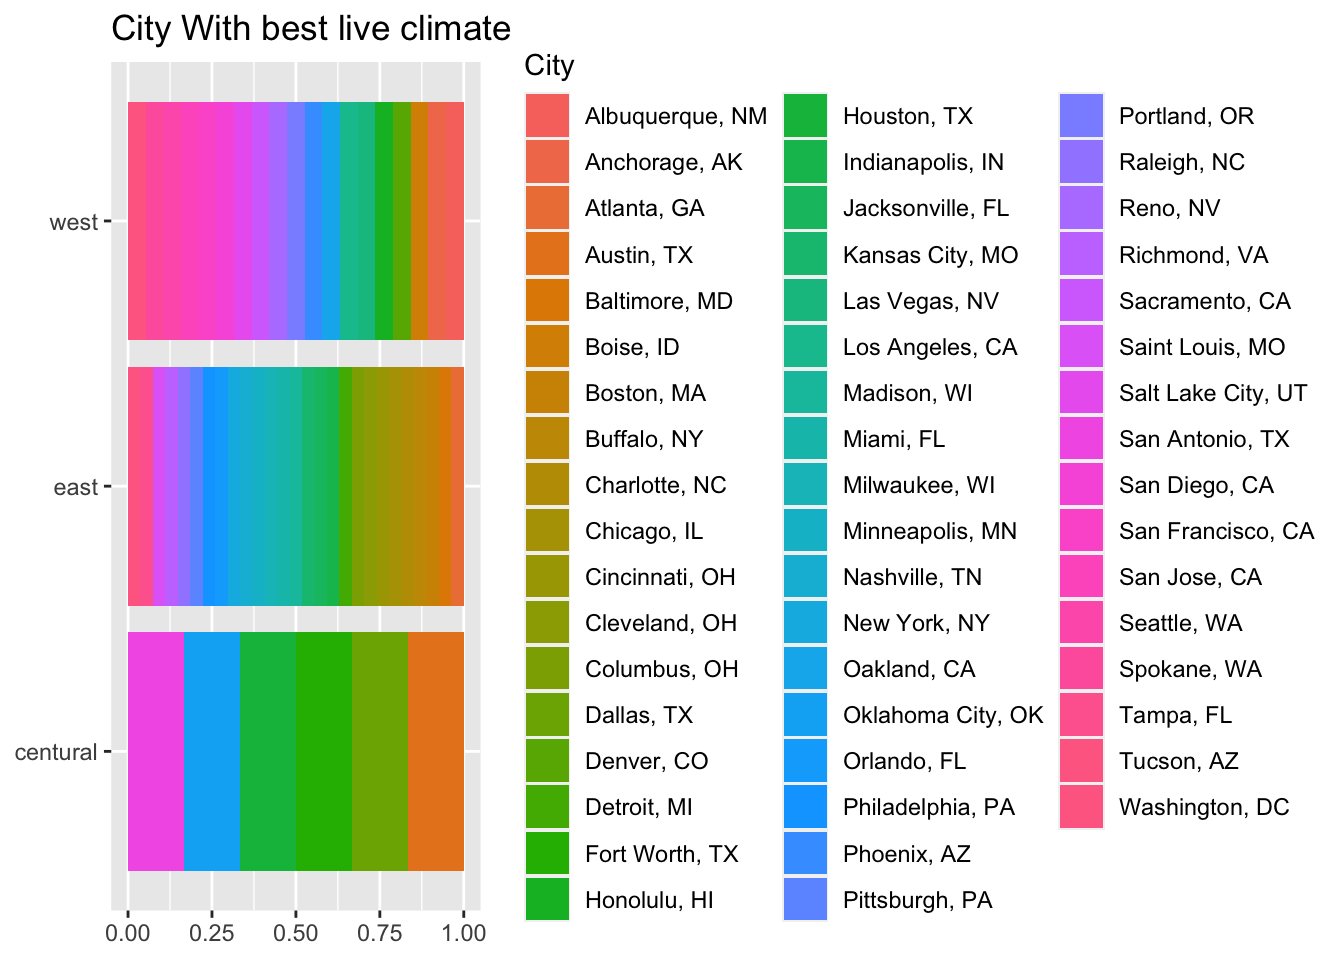
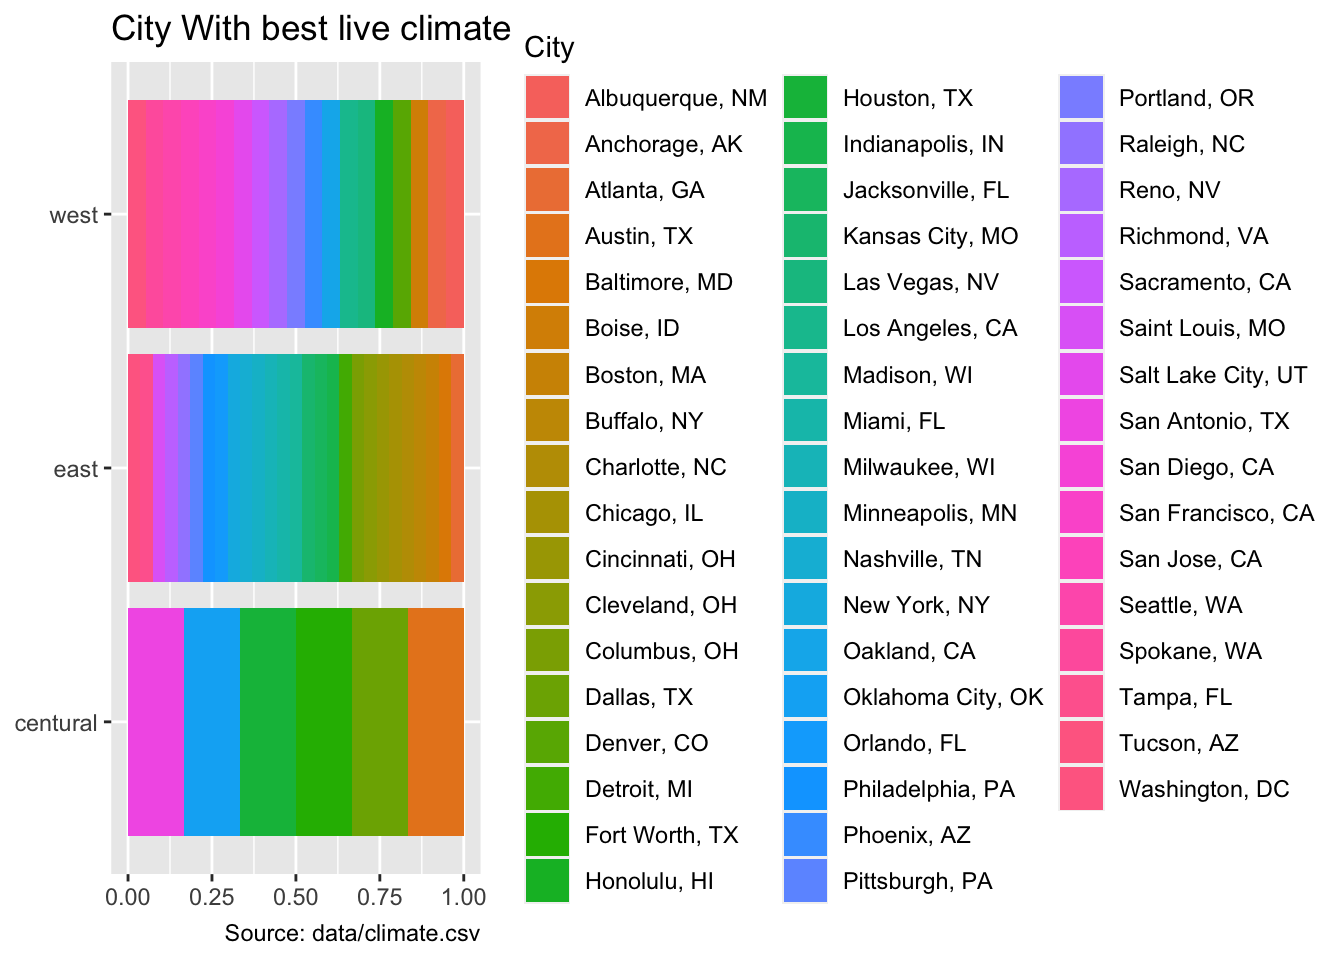
Update

diff --git a/2022/03/data-science-post-2/index.html b/2022/03/data-science-post-2/index.html
@@ -310,17 +310,85 @@ Data Science Analysis and Visulization Post #2
 <h1>Load Tidyverse Package</h1>
 <pre class="r"><code>library(tidyverse)</code></pre>
 </div>
-<div id="load-data-set" class="section level1">
-<h1>Load Data Set</h1>
-<pre class="r"><code>climate &lt;- read_csv(&quot;data/climate.csv&quot;)</code></pre>
+<div id="load-data-set-summary-of-data-set" class="section level1">
+<h1>Load Data Set &amp; Summary of Data Set</h1>
+<pre class="r"><code>climate &lt;- read_csv(&quot;data/climate.csv&quot;)
+dim(climate)</code></pre>
+<pre><code>## [1] 52 12</code></pre>
+<pre class="r"><code>summary(climate)</code></pre>
+<pre><code>##       Rank           City              Region          QualityofLifeIndex
+##  Min.   : 1.00   Length:52          Length:52          Min.   :133.5     
+##  1st Qu.:13.75   Class :character   Class :character   1st Qu.:163.9     
+##  Median :26.50   Mode  :character   Mode  :character   Median :172.6     
+##  Mean   :26.50                                         Mean   :173.1     
+##  3rd Qu.:39.25                                         3rd Qu.:182.5     
+##  Max.   :52.00                                         Max.   :208.9     
+##  Purchasing Power Index  Safety Index   Health Care Index CostofLivingIndex
+##  Min.   : 82.06         Min.   :24.26   Min.   :55.83     Min.   : 62.07   
+##  1st Qu.:112.55         1st Qu.:41.13   1st Qu.:64.49     1st Qu.: 66.97   
+##  Median :126.17         Median :49.70   Median :70.22     Median : 72.20   
+##  Mean   :124.78         Mean   :48.05   Mean   :70.11     Mean   : 73.94   
+##  3rd Qu.:134.47         3rd Qu.:54.76   3rd Qu.:74.87     3rd Qu.: 77.69   
+##  Max.   :169.75         Max.   :67.15   Max.   :81.26     Max.   :103.25   
+##  Property Price to Income Ratio Traffic Commute Time Index Pollution Index
+##  Min.   :1.350                  Min.   :21.96              Min.   :16.20  
+##  1st Qu.:2.462                  1st Qu.:27.11              1st Qu.:29.31  
+##  Median :3.720                  Median :34.09              Median :38.84  
+##  Mean   :4.052                  Mean   :33.96              Mean   :38.98  
+##  3rd Qu.:5.050                  3rd Qu.:39.30              3rd Qu.:46.14  
+##  Max.   :9.830                  Max.   :61.07              Max.   :67.59  
+##   ClimateIndex  
+##  Min.   :41.61  
+##  1st Qu.:66.92  
+##  Median :78.82  
+##  Mean   :76.50  
+##  3rd Qu.:85.57  
+##  Max.   :97.26</code></pre>
 </div>
 <div id="distribution-of-best-living-climate-citys-in-each-region" class="section level1">
 <h1>Distribution of best living climate citys in each region</h1>
 <pre class="r"><code>ggplot(climate, aes(y = Region, fill = City)) +
   geom_bar(position = &quot;fill&quot;) + 
   labs(title = &quot;City With best live climate&quot;,
+       caption = &quot;Source: data/climate.csv&quot;,
        y = NULL, x = NULL)</code></pre>
-<p><img src="https://example.org/posts/Data%20Science%20Post%202_files/figure-html/unnamed-chunk-1-1.png" width="672" /></p>
+<p><img src="https://example.org/posts/Data%20Science%20Post%202_files/figure-html/unnamed-chunk-1-1.png" width="672" />
+From this bar graph. We can having a brief view about the discribution of city that is great for live in the United States. Most of best living city are in east. Because the east region has more color compare with east and centural states.</p>
+</div>
+<div id="how-living-cost-influence-livng-quality" class="section level1">
+<h1>How living cost influence livng quality</h1>
+<pre class="r"><code>ggplot(
+  data = climate,
+  mapping = aes(
+    y = CostofLivingIndex ,
+    x = QualityofLifeIndex)) + 
+    labs(title = &quot;Living Cost and Living Quality&quot;,
+       caption = &quot;Source: data/climate.csv&quot;,) +
+    geom_point( aes(color = Region))  + geom_smooth(color = &quot;Black&quot;)</code></pre>
+<pre><code>## `geom_smooth()` using method = &#39;loess&#39; and formula &#39;y ~ x&#39;</code></pre>
+<p><img src="https://example.org/posts/Data%20Science%20Post%202_files/figure-html/unnamed-chunk-2-1.png" width="672" />
+In this diagram. it represent the relationship between the living and cost. We can having a direct view that under most condition, a high living cost will be lower the living quality. This is also true in common life. People feels streeful when they live in a high economic stree environment. The line on graph has show a decreaing trent which represent the higher living quality score the lower of living cost. The point represent a city from east, west or centural. City from east has a wide range of difference living situations.</p>
+<pre class="r"><code>ggplot(climate, aes(
+  x = QualityofLifeIndex,
+  fill = Region
+)) +
+  geom_density(
+    adjust = 2,
+    alpha = 0.5
+  ) +
+  labs(
+    x = &quot;Quality of Life Index&quot;,
+    y = &quot;Density&quot;,
+    title = &quot;Quality of Life In different region&quot;,
+    fill = &quot;Region&quot;,
+    caption = &quot;Source: data/climate.csv&quot;
+  )</code></pre>
+<p><img src="https://example.org/posts/Data%20Science%20Post%202_files/figure-html/unnamed-chunk-3-1.png" width="672" />
+From this density graph, we can easily having a idea of which region having the highest living quality which is West city. East and centroal are about the same, but centural state having a higher desnity than east. So, we can rank three region by West better than ceuntrual and better than east.</p>
+</div>
+<div id="conclution" class="section level1">
+<h1>Conclution</h1>
+<p>In couclution, I would like to go over this post. The data set I hading using in this research is about living quality. Different type of graph has different preformance with to showing the result. Throught the data analysis that I had done above, West cities has the highest satisification for people to live with. People who live in est cities having a higher living quality score. In the end, I feel like the data set that I am using is a great resources for analysis practice. It helps me to figure out the best living place which is the question I had while work with this data set.</p>
 </div>
 
               

diff --git a/2022/03/data-science-post-1/index.html b/2022/03/data-science-post-1/index.html
@@ -372,7 +372,7 @@ Data Science Analysis and Visulization Post #1
                      color = SchoolType)) +
   geom_point() + 
   labs(title = &quot;School Preference Number 1 VS Total number Preference&quot;,
-       subtitle = &quot;Dimensions for Adelie, Chinstrap, and Gentoo Penguins&quot;,
+       subtitle = &quot;Point Diagram&quot;,
        x = &quot;Total number of Preference&quot;, 
        y = &quot;Preference #1&quot;,
        color = &quot;SchoolType&quot;,
@@ -417,6 +417,10 @@ Through the graph we can see that Junior’s total number of preference in 2018 
   ) </code></pre>
 <p><img src="https://example.org/posts/Data%20Science%20Post%201_files/figure-html/unnamed-chunk-4-1.png" width="672" />
 This broken line graph indicate the free Place oppourntity (other than Perference) in each different type of school. We can see tha secondary school are not having and free place availiable for applicans which means that they only accept preference admission. In 2019 Secondary school start to having space for non-preference applicant. At this point, All Secondary school has changed their policy.</p>
+</div>
+<div id="conclution" class="section level1">
+<h1>Conclution</h1>
+<p>In conclution, I feel glad to work with a dataset related to the school admission. I feels it is interesting to know the admmsion choice of primary, secondary and junior school and through the data visitualization and my analysisi, I can clear see the change that different level of school has made for admission decisions. My goal in beginning is try to find out something interesting in this data set. Finding I find out the relationship between student who having preference and who don’t having a preference. It is fun to see the difference and year of change with policy for free place admission choice.</p>
 </div>
 
               
